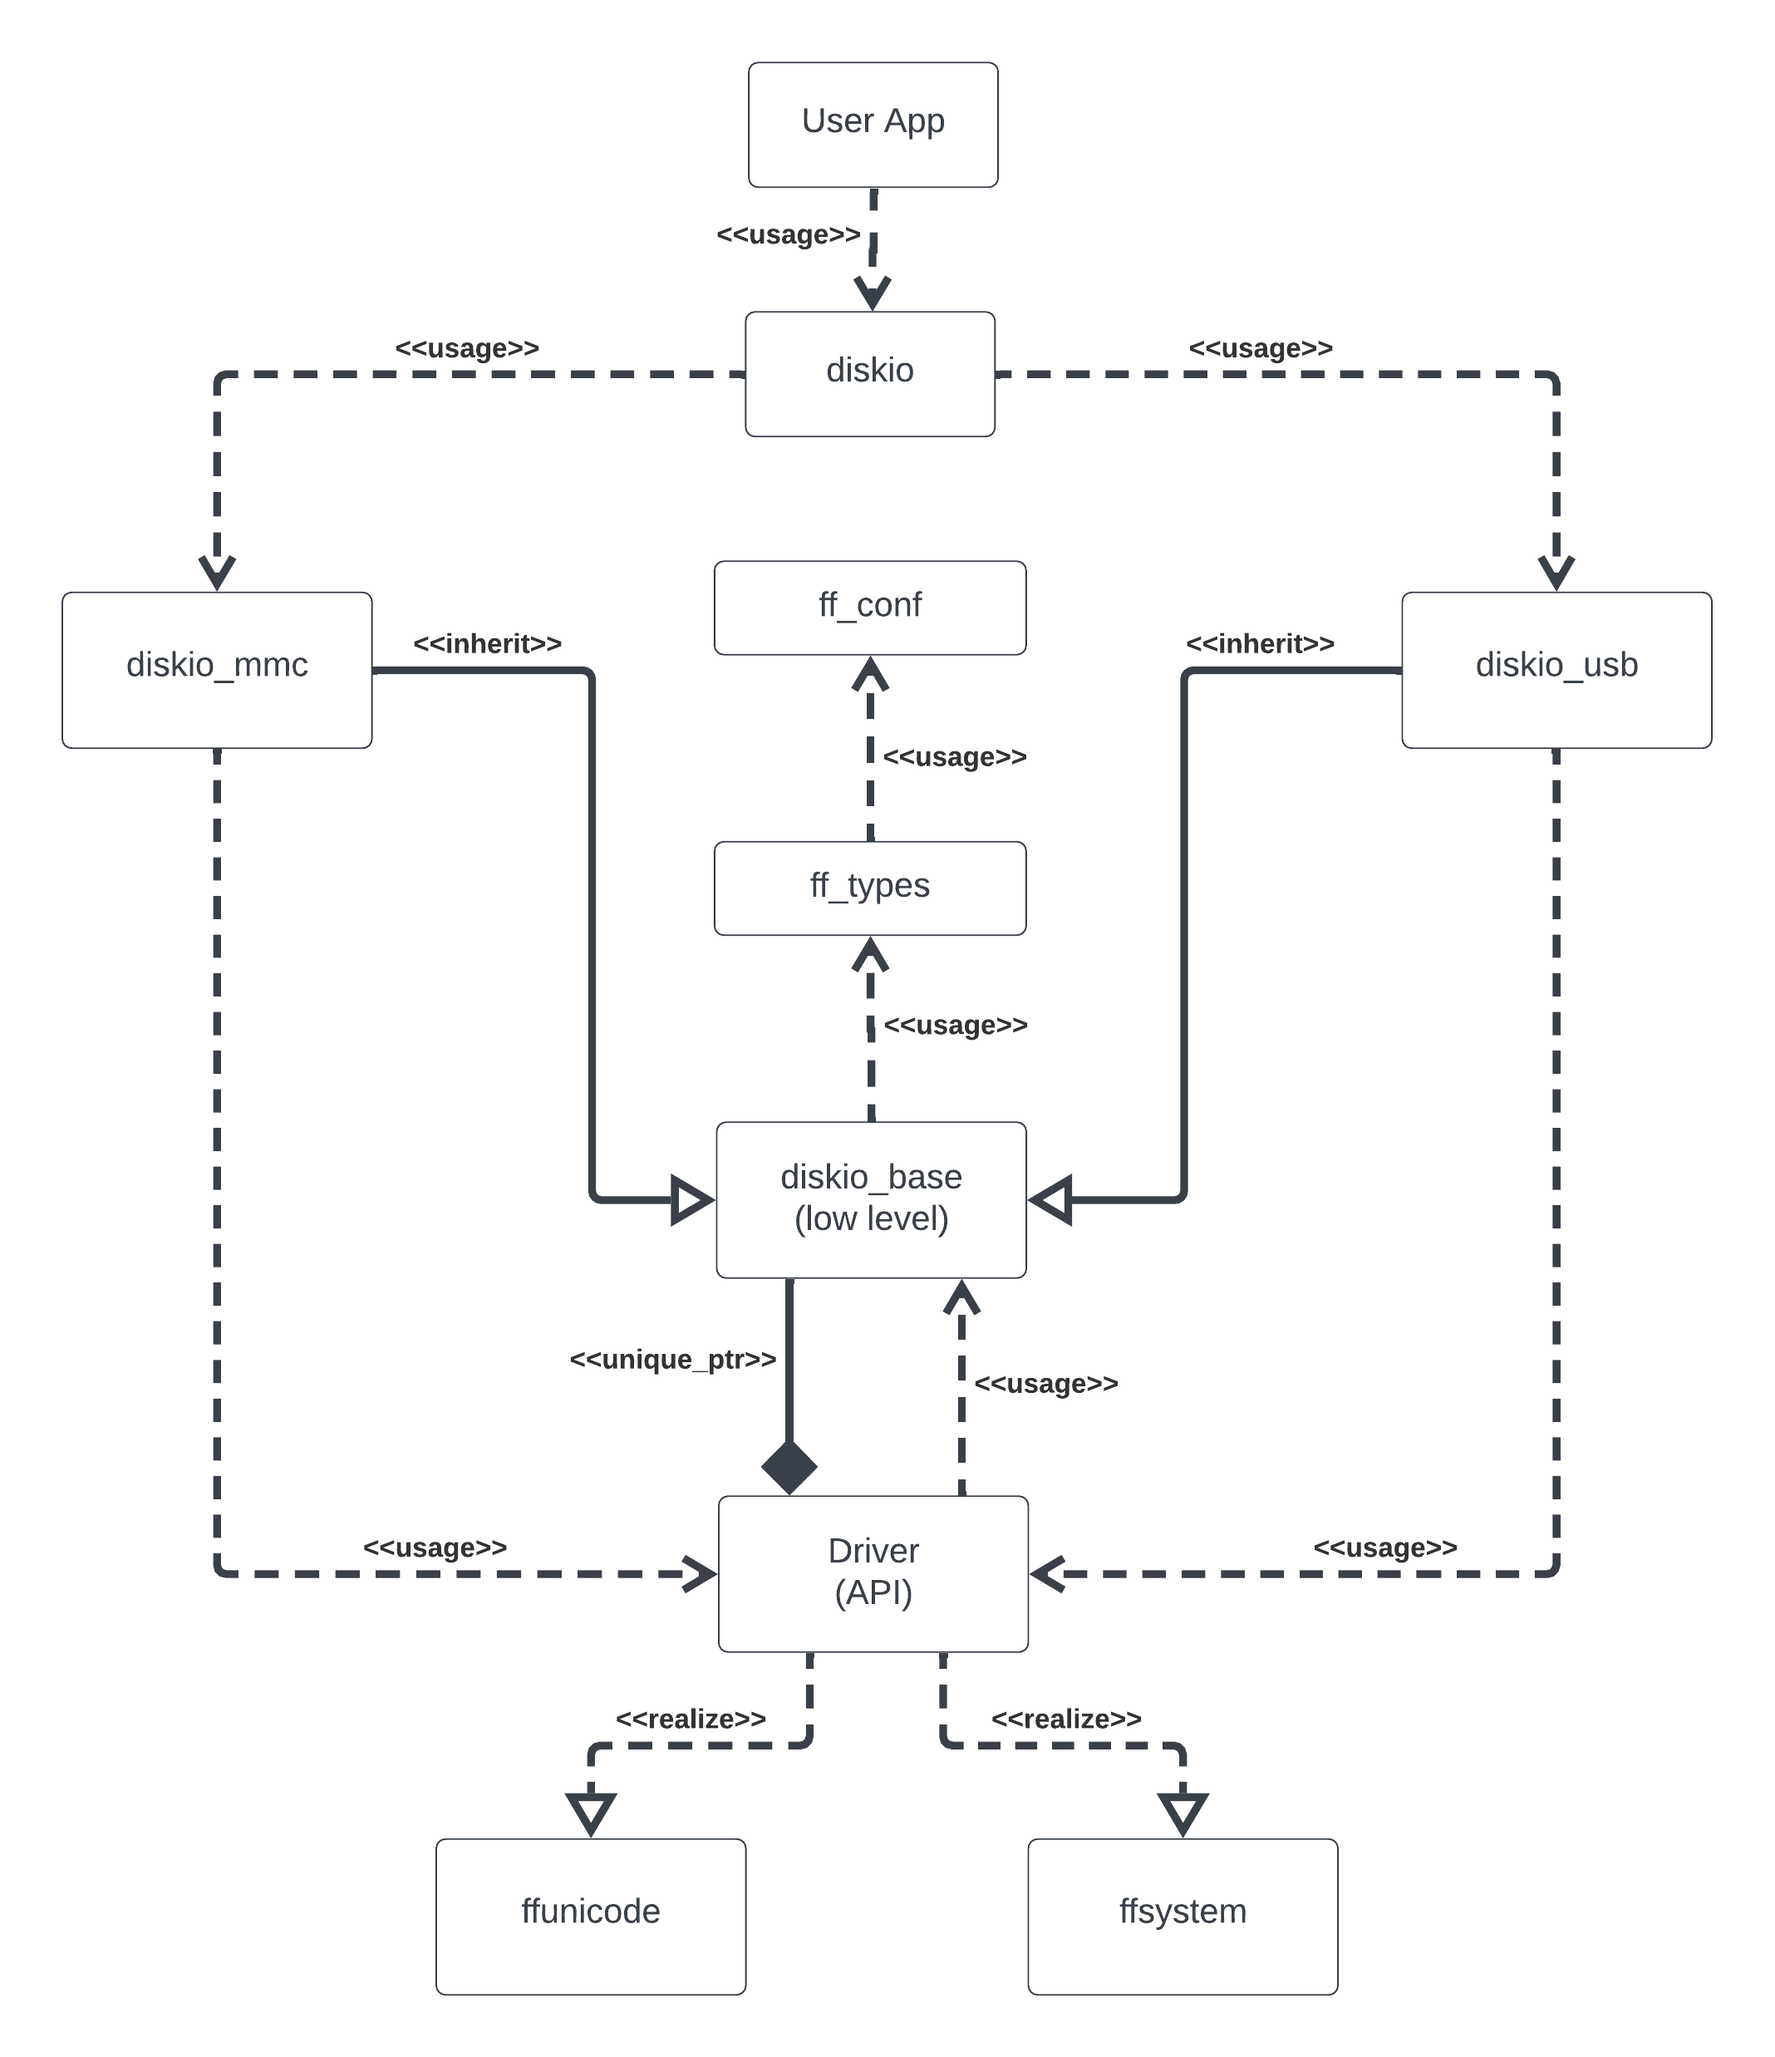
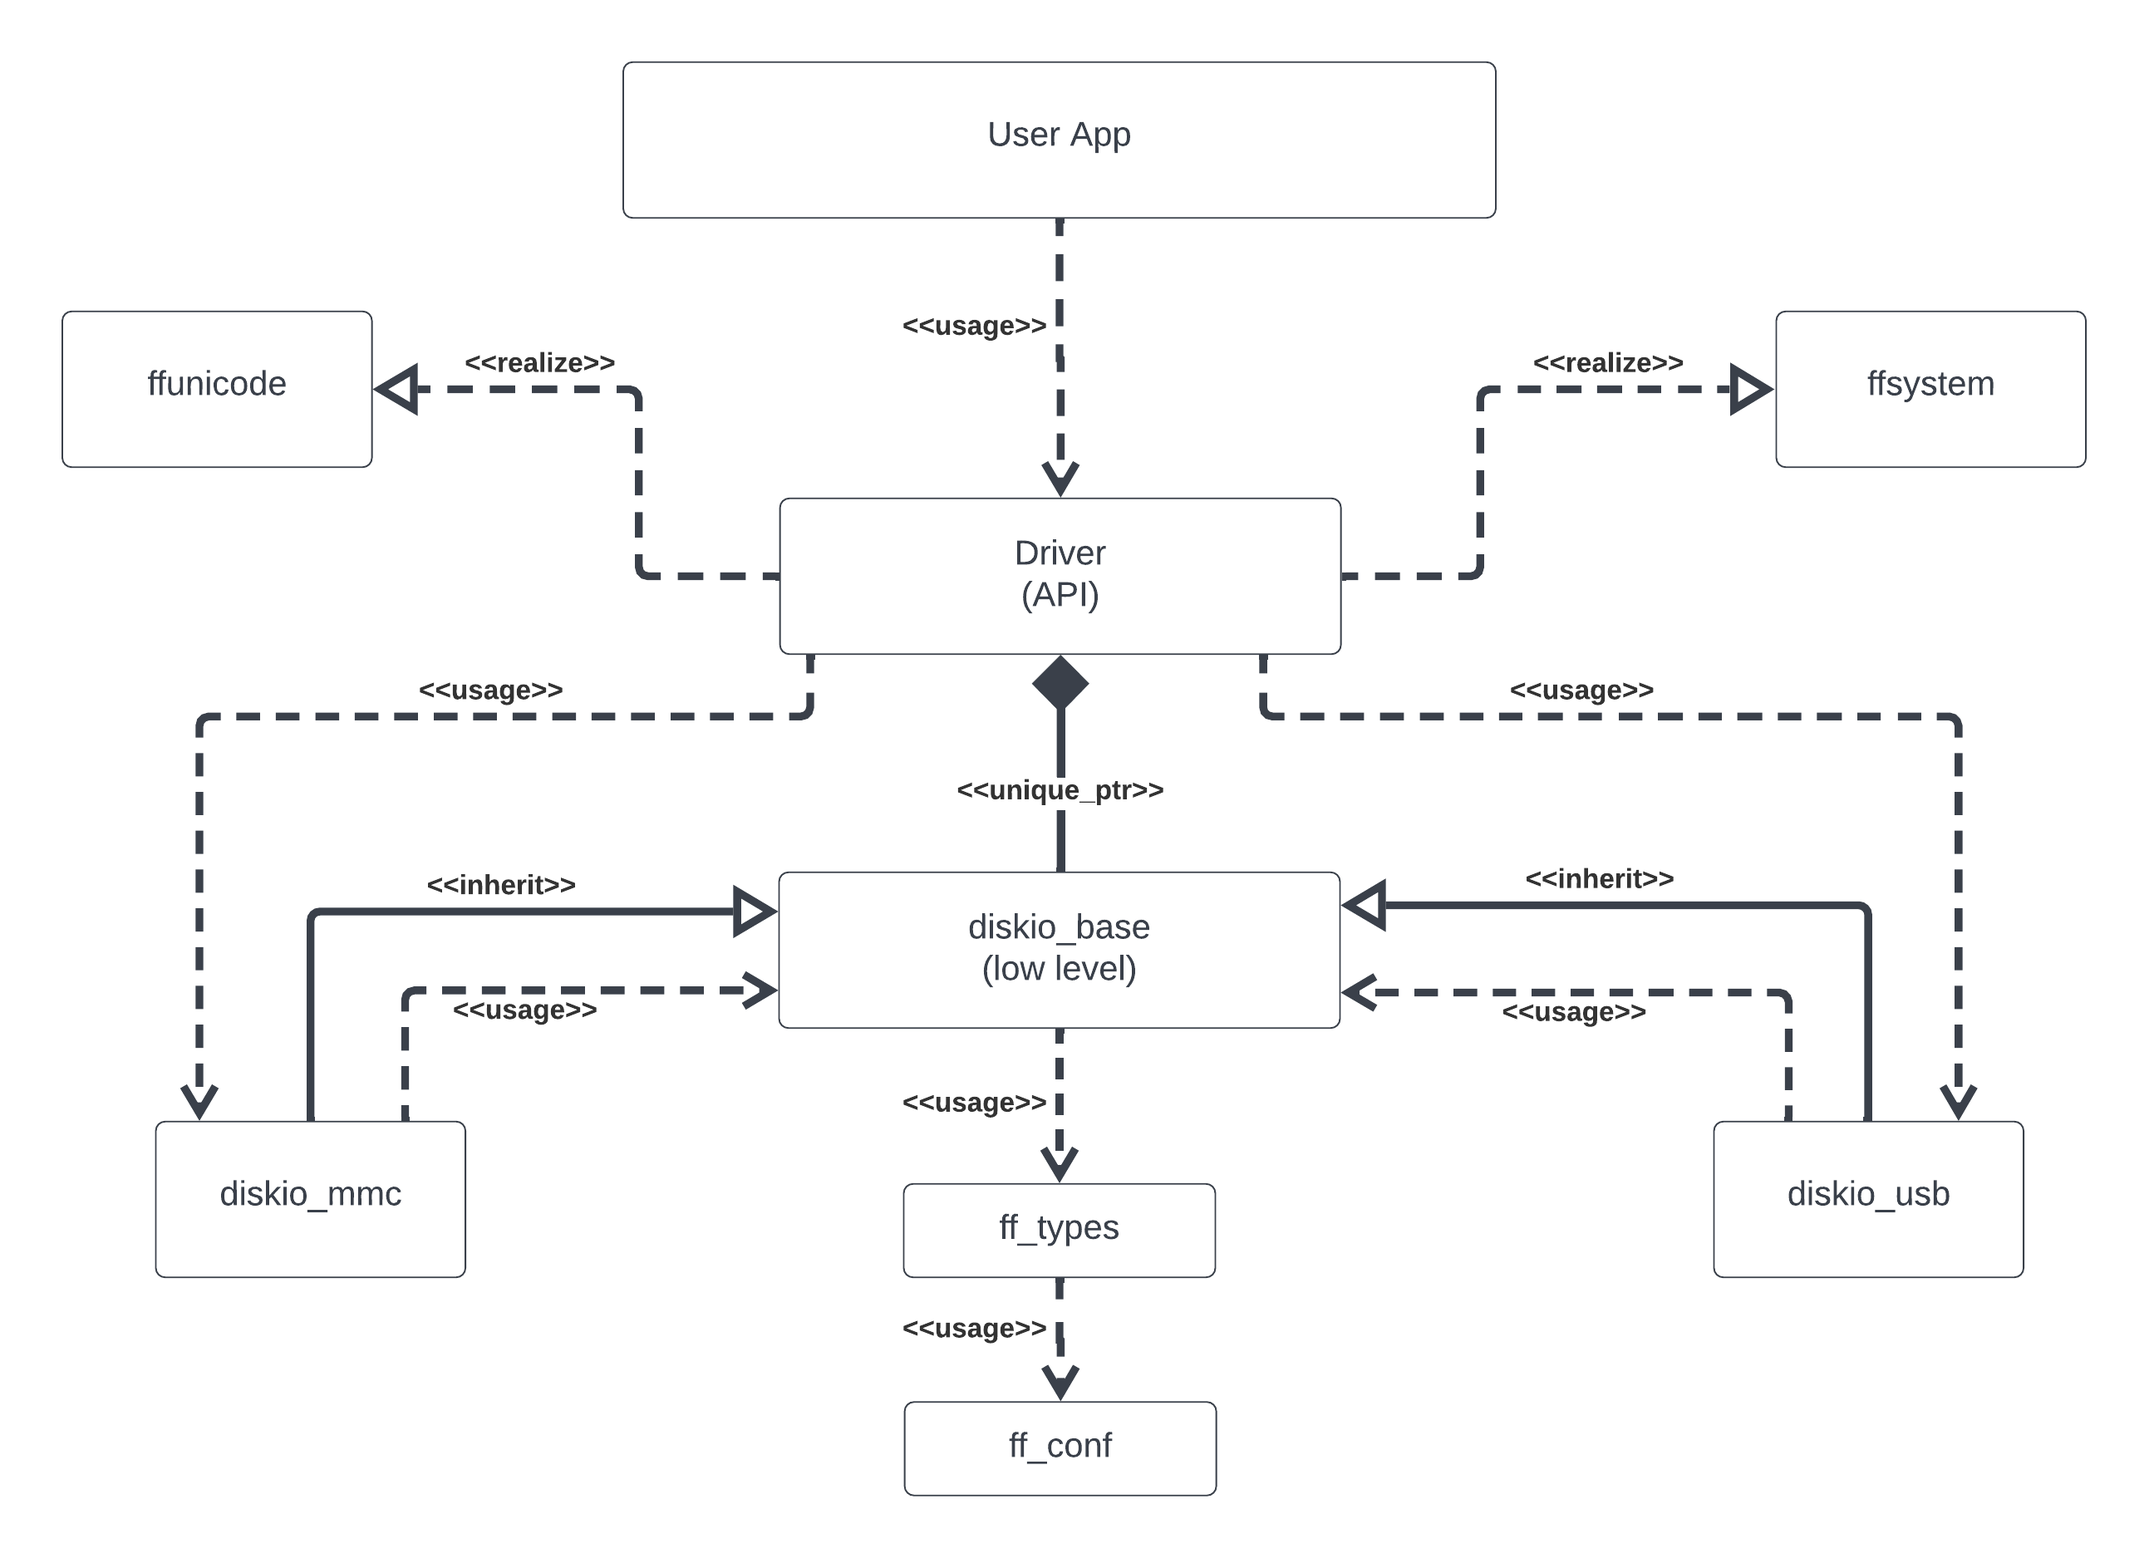
updated architecture

diff --git a/inc/ff.hpp b/inc/ff.hpp
@@ -18,7 +18,7 @@
 /
 /----------------------------------------------------------------------------*/
 
-// C++ Port of the original source code are subject to MIT License
+// C++ port of the original source code is subject to MIT License
 
 // Copyright (c) 2022 Chris Sutton
 
@@ -43,7 +43,8 @@
 #ifndef __FF_HPP__
 #define __FF_HPP__
 
-#include <diskio_base.hpp>
+#include <diskio_usb.hpp>
+#include <diskio_mmc.hpp>
 #include <memory>
 
 #ifndef FF_DEFINED
@@ -56,7 +57,26 @@ class Driver {
 
 public:
 
-	Driver(DiskioBase &diskio); 
+	Driver(const DiskioType dtype); 
+
+	/* File access mode and open method flags (3rd argument of f_open) */
+	static constexpr uint8_t FA_READ		  =	0x01;
+	static constexpr uint8_t FA_WRITE		  =	0x02;
+	static constexpr uint8_t FA_OPEN_EXISTING =	0x00;
+	static constexpr uint8_t FA_CREATE_NEW	  =	0x04;
+	static constexpr uint8_t FA_CREATE_ALWAYS =	0x08;
+	static constexpr uint8_t FA_OPEN_ALWAYS	  =	0x10;
+	static constexpr uint8_t FA_OPEN_APPEND	  =	0x30;
+
+	/* Fast seek controls (2nd argument of f_lseek) */
+	static constexpr QWORD CREATE_LINKMAP	  = ((FSIZE_t)0 - 1);
+
+	/* Format options (2nd argument of f_mkfs) */
+	static constexpr uint8_t FM_FAT			  = 0x01;
+	static constexpr uint8_t FM_FAT32		  = 0x02;
+	static constexpr uint8_t FM_EXFAT		  =	0x04;
+	static constexpr uint8_t FM_ANY		      = 0x07;
+	static constexpr uint8_t FM_SFD			  = 0x08;	
 
 	static constexpr uint8_t SZDIRE			  =	32;		/* Size of a directory entry */
 
@@ -316,24 +336,7 @@ private:
 	/*--------------------------------------------------------------*/
 	/* Flags and offset address                                     */
 
-	/* File access mode and open method flags (3rd argument of f_open) */
-	static constexpr uint8_t FA_READ		  =	0x01;
-	static constexpr uint8_t FA_WRITE		  =	0x02;
-	static constexpr uint8_t FA_OPEN_EXISTING =	0x00;
-	static constexpr uint8_t FA_CREATE_NEW	  =	0x04;
-	static constexpr uint8_t FA_CREATE_ALWAYS =	0x08;
-	static constexpr uint8_t FA_OPEN_ALWAYS	  =	0x10;
-	static constexpr uint8_t FA_OPEN_APPEND	  =	0x30;
 
-	/* Fast seek controls (2nd argument of f_lseek) */
-	static constexpr QWORD CREATE_LINKMAP	  = ((FSIZE_t)0 - 1);
-
-	/* Format options (2nd argument of f_mkfs) */
-	static constexpr uint8_t FM_FAT			  = 0x01;
-	static constexpr uint8_t FM_FAT32		  = 0x02;
-	static constexpr uint8_t FM_EXFAT		  =	0x04;
-	static constexpr uint8_t FM_ANY		      = 0x07;
-	static constexpr uint8_t FM_SFD			  = 0x08;
 
 	/* Filesystem type (FATFS.fs_type) */
 	static constexpr uint8_t FS_FAT12		  = 1;

diff --git a/src/ff.cpp b/src/ff.cpp
@@ -18,7 +18,7 @@
 /
 /----------------------------------------------------------------------------*/
 
-// C++ Port of the original source code are subject to MIT License
+// C++ port of the original source code is subject to MIT License
 
 // Copyright (c) 2022 Chris Sutton
 
@@ -223,10 +223,20 @@ static const BYTE DbcTbl[] = MKCVTBL(TBL_DC, FF_CODE_PAGE);
 
 #endif
 
-Driver::Driver(DiskioBase &diskio) 
-: m_diskio(&diskio) // initialize m_diskio (std::unique_ptr) with pointer to diskio arg
+Driver::Driver(const DiskioType dtype) 
 {
-	// do nothing
+	// initialize m_diskio (std::unique_ptr)
+	switch(dtype)
+	{
+		case DiskioType::MMC:
+			m_diskio = std::make_unique<DiskioMMC>();
+		break;
+		default:
+			while(true);
+			// non-MMC types not implemented...yet
+		break;		
+	}
+
 }
 
 

diff --git a/inc/diskio_mmc.hpp b/inc/diskio_mmc.hpp
@@ -19,7 +19,7 @@
 /
 /----------------------------------------------------------------------------*/
 
-// C++ Port of the original source code are subject to MIT License
+// C++ port of the original source code is subject to MIT License
 
 // Copyright (c) 2022 Chris Sutton
 
@@ -44,7 +44,7 @@
 #ifndef __DISKIO_MMC_HPP__
 #define __DISKIO_MMC_HPP__
 
-#include <ff.hpp>
+#include <diskio_base.hpp>
 
 namespace fatfs {
 

diff --git a/inc/diskio_usb.hpp b/inc/diskio_usb.hpp
@@ -19,7 +19,7 @@
 /
 /----------------------------------------------------------------------------*/
 
-// C++ Port of the original source code are subject to MIT License
+// C++ port of the original source code is subject to MIT License
 
 // Copyright (c) 2022 Chris Sutton
 
@@ -44,7 +44,7 @@
 #ifndef __DISKIO_USB_HPP__
 #define __DISKIO_USB_HPP__
 
-#include <ff.hpp>
+#include <diskio_base.hpp>
 
 namespace fatfs {
 

diff --git a/inc/diskio_base.hpp b/inc/diskio_base.hpp
@@ -18,7 +18,7 @@
 /
 /----------------------------------------------------------------------------*/
 
-// C++ Port of the original source code are subject to MIT License
+// C++ port of the original source code is subject to MIT License
 
 // Copyright (c) 2022 Chris Sutton
 
@@ -47,7 +47,12 @@
 
 namespace fatfs {
 
-
+enum class DiskioType 
+{
+    MMC,
+    USB,
+    RAM
+};
 class DiskioBase {
 
 public:

diff --git a/inc/ff_types.hpp b/inc/ff_types.hpp
@@ -19,7 +19,7 @@
 /----------------------------------------------------------------------------*/
 
 
-// MIT License
+// C++ port of the original source code is subject to MIT License
 
 // Copyright (c) 2022 Chris Sutton
 
@@ -53,6 +53,8 @@
 // #endif
 
 namespace fatfs {
+
+
 
 #define FF_INTDEF 2
 typedef unsigned int	UINT;	/* int must be 16-bit or 32-bit */

diff --git a/inc/ffconf.hpp b/inc/ffconf.hpp
@@ -18,7 +18,7 @@
 /
 /----------------------------------------------------------------------------*/
 
-// C++ Port of the original source code are subject to MIT License
+// C++ port of the original source code is subject to MIT License
 
 // Copyright (c) 2022 Chris Sutton
 

diff --git a/src/diskio_base.cpp b/src/diskio_base.cpp
@@ -19,7 +19,7 @@
 /
 /----------------------------------------------------------------------------*/
 
-// C++ Port of the original source code are subject to MIT License
+// C++ port of the original source code is subject to MIT License
 
 // Copyright (c) 2022 Chris Sutton
 

diff --git a/src/diskio_mmc.cpp b/src/diskio_mmc.cpp
@@ -19,7 +19,7 @@
 /
 /----------------------------------------------------------------------------*/
 
-// C++ Port of the original source code are subject to MIT License
+// C++ port of the original source code is subject to MIT License
 
 // Copyright (c) 2022 Chris Sutton
 

diff --git a/src/diskio_usb.cpp b/src/diskio_usb.cpp
@@ -19,7 +19,7 @@
 /
 /----------------------------------------------------------------------------*/
 
-// C++ Port of the original source code are subject to MIT License
+// C++ port of the original source code is subject to MIT License
 
 // Copyright (c) 2022 Chris Sutton
 

diff --git a/src/ffsystem.cpp b/src/ffsystem.cpp
@@ -4,7 +4,7 @@
 /*------------------------------------------------------------------------*/
 
 
-// C++ Port of the original source code are subject to MIT License
+// C++ port of the original source code is subject to MIT License
 
 // Copyright (c) 2022 Chris Sutton
 

diff --git a/src/ffunicode.cpp b/src/ffunicode.cpp
@@ -22,7 +22,7 @@
 / by use of this software.
 */
 
-// C++ Port of the original source code are subject to MIT License
+// C++ port of the original source code is subject to MIT License
 
 // Copyright (c) 2022 Chris Sutton
 
